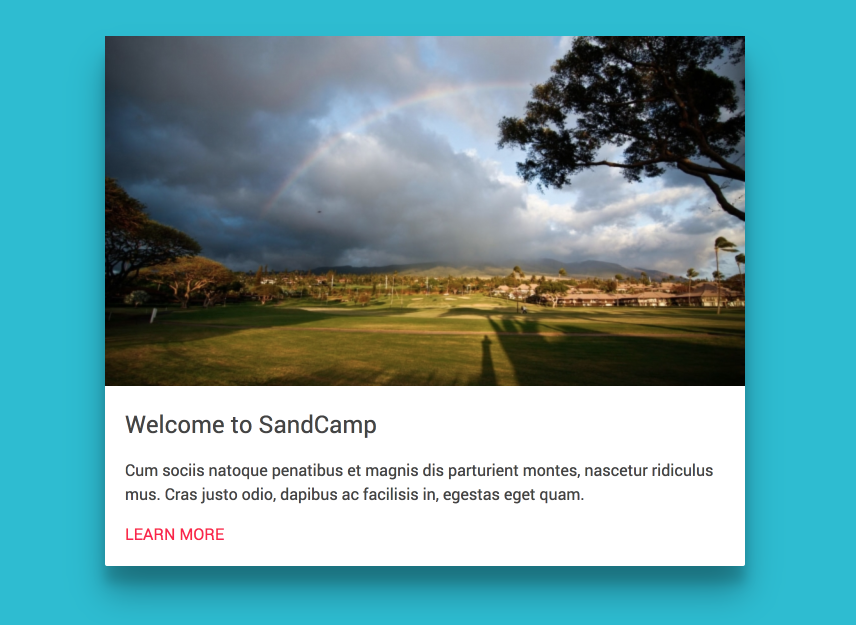
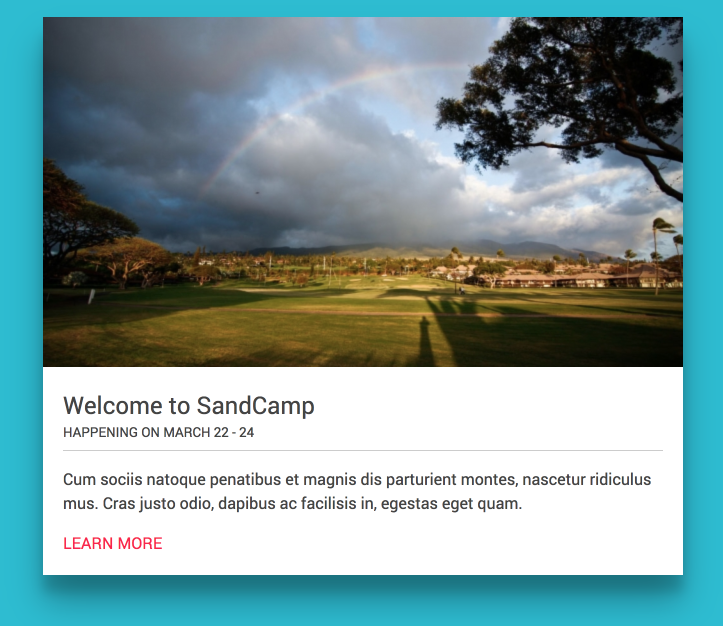
Adds card variations screenshot

diff --git a/README.md b/README.md
@@ -81,7 +81,8 @@ Each of the examples above starts by using the default class of `button` to inhe
 Now that we have a basic concept on variations, let's create a more advanced example.  This time we will start by creating a Card component which contains the following attributes:
 * Image
 * Title
-* Excerpt text
+* Date
+* Teaser text
 * Link
 
 This is how our default card looks like
@@ -150,6 +151,17 @@ img {
   font-weight: 400;
 }
 ```
+
+## Creating variations
+Now using the original markup and styles we will create the following two card variations
+
+**Card Medium**
+![Default state of Card](images/card-medium.png)
+
+**Card Small**
+![Default state of Card](images/card-small.png)
+
+
 
 
 
